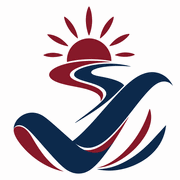
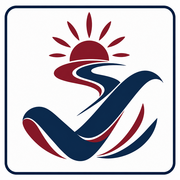
Ajouter un encadré bleu marine au picto

diff --git a/index.html b/index.html
@@ -5,9 +5,9 @@
   <meta charset="utf-8">
   <meta name="viewport" content="width=device-width, initial-scale=1, viewport-fit=cover">
   <title>Faciliter mon quotidien</title>
-  <link rel="apple-touch-icon" sizes="180x180" href="./apple-touch-icon.png?v=29">
-  <link rel="icon" type="image/png" sizes="512x512" href="./app-icon-512.png?v=29">
-  <link rel="manifest" href="./manifest.webmanifest?v=30">
+  <link rel="apple-touch-icon" sizes="180x180" href="./apple-touch-icon.png?v=34">
+  <link rel="icon" type="image/png" sizes="512x512" href="./app-icon-512.png?v=34">
+  <link rel="manifest" href="./manifest.webmanifest?v=34">
   <meta name="apple-mobile-web-app-title" content="Faciliter mon quotidien">
   <meta name="apple-mobile-web-app-capable" content="yes">
   <meta name="apple-mobile-web-app-status-bar-style" content="default">
